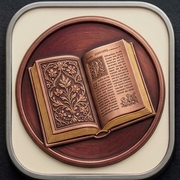
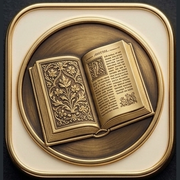
Nouvelle icône du cahier
Claude-Session: https://claude.ai/code/session_011WbfnFVe8sq7w6ojpusaZu

diff --git a/cahier-jour.html b/cahier-jour.html
@@ -1,10 +1,10 @@
 <!doctype html>
 <html lang="th"><head><meta charset="utf-8"><meta name="viewport" content="width=device-width, initial-scale=1">
 <title>สมุดลงงาน</title>
-<link rel="apple-touch-icon" href="cahier-icon-180.png">
+<link rel="apple-touch-icon" href="cahier-icon-180.png?v=2">
 <style>body{font-family:system-ui,sans-serif;background:#f0e4cd;color:#7f1d1d;text-align:center;padding:60px 20px}img{width:120px;border-radius:26px}a{display:inline-block;margin-top:18px;background:#7f1d1d;color:#fff;padding:14px 22px;border-radius:12px;font-weight:800;text-decoration:none}</style>
 </head><body>
-<img src="cahier-icon-512.png" alt=""><h2>ย้ายไปที่อยู่ใหม่แล้ว</h2><div>⏳ กำลังเปิด…</div>
+<img src="cahier-icon-512.png?v=2" alt=""><h2>ย้ายไปที่อยู่ใหม่แล้ว</h2><div>⏳ กำลังเปิด…</div>
 <a id="go" href="https://pointage-staff.web.app/app/cahier-jour.html">📲 เปิด สมุดลงงาน</a>
 <script>
 // ➡ tout a déménagé sur pointage-staff.web.app/app : on emmène les réglages de l'appareil (sauf gros fichiers)

diff --git a/cahier.html b/cahier.html
@@ -1,10 +1,10 @@
 <!doctype html>
 <html lang="th"><head><meta charset="utf-8"><meta name="viewport" content="width=device-width, initial-scale=1">
 <title>สมุดลงงาน</title>
-<link rel="apple-touch-icon" href="cahier-icon-180.png">
+<link rel="apple-touch-icon" href="cahier-icon-180.png?v=2">
 <style>body{font-family:system-ui,sans-serif;background:#f0e4cd;color:#7f1d1d;text-align:center;padding:60px 20px}img{width:120px;border-radius:26px}a{display:inline-block;margin-top:18px;background:#7f1d1d;color:#fff;padding:14px 22px;border-radius:12px;font-weight:800;text-decoration:none}</style>
 </head><body>
-<img src="cahier-icon-512.png" alt=""><h2>ย้ายไปที่อยู่ใหม่แล้ว</h2><div>⏳ กำลังเปิด…</div>
+<img src="cahier-icon-512.png?v=2" alt=""><h2>ย้ายไปที่อยู่ใหม่แล้ว</h2><div>⏳ กำลังเปิด…</div>
 <a id="go" href="https://pointage-staff.web.app/app/cahier.html">📲 เปิด สมุดลงงาน</a>
 <script>
 // ➡ tout a déménagé sur pointage-staff.web.app/app : on emmène les réglages de l'appareil (sauf gros fichiers)
